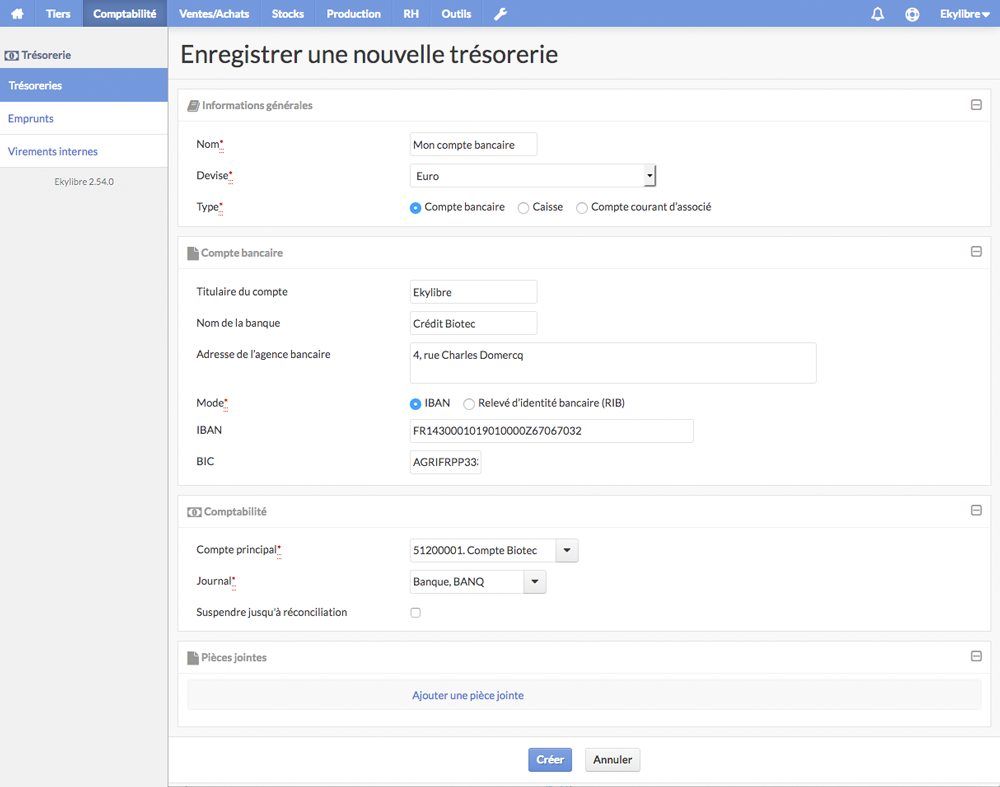
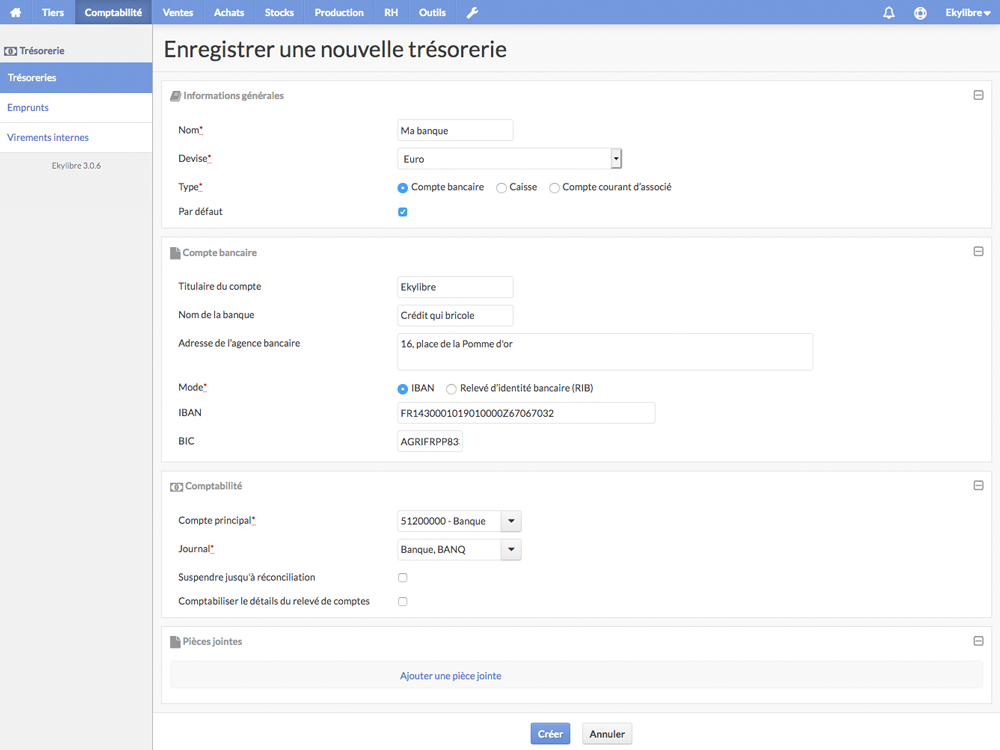
Accountacy 2019

diff --git a/content/fr/chapitre6.html b/content/fr/chapitre6.html
@@ -350,6 +350,14 @@
                   Comment valider les écritures enregistrées dans le <a href="../chapitre6#brouillard" target="_self">brouillard</a> comptable
                </div>
             </div>
+			<div class="divTableRow">
+               <div class="divTableCellListe" style="width: 14px">
+                  <img src="../images/commun/caret-right.svg" alt="Flèche" height="15">
+               </div>
+               <div class="divTableCellListe" style="width: auto">
+                  Comment réaliser le <a href="../chapitre6#rapprochement" target="_self">rapprochement bancaire</a> avec import d'un fichier OFX
+               </div>
+            </div>
             <div class="divTableRow">
                <div class="divTableCellListe" style="width: 14px">
                   <img src="../images/commun/caret-right.svg" alt="Flèche" height="15">
@@ -1498,7 +1506,7 @@
          <p align="center"><img src="../images/chapitre6/comptabilite.svg" alt="Comptabilité" width="60"></p>
          <p>Dans la barre latérale du module, cliquez sur "Trésoreries" dans la section "Trésorerie" symbolisée par l'icône d'un billet<img src="../images/chapitre6/money.svg" alt="Billet" height="20" class="align-icone icone-marge-gauche icone-marge-droite">pour afficher la liste des moyens d'encaissement/décaissement.</p>
          <p class="max-img-process">
-            <img src="../images/chapitre6/tresorerie1.png" class="contour-img" alt="Moyens d'encaissement/décaissement" data-action="zoom" />
+            <img src="../images/chapitre6/tresorerie1.png" class="contour-img" alt="Liste des trésoreries" data-action="zoom" />
          </p>
       </div>
       <div class="info-fond aerateur-haut aerateur-bas">
@@ -1677,6 +1685,180 @@
             <img src="../images/chapitre6/virement3.png" class="contour-img" alt="Nouvel emprunt" data-action="zoom" />
          </p>
       </div>
+	  <h6>Guide de prise en main • Comptabilité • Rapprochement bancaire</h6>
+      <a class="slice-long" id="rapprochement"></a>
+      <p align="center" class="texte aerateur procedure">D – Procédure pour réaliser un rapprochement bancaire</p>
+	  <!--
+	   <p class="texte">Le lettrage comptable d'un compte &#40;généralement un compte de tiers&#41; est une opération comptable qui consiste à affecter un seul repère à 2 ou plusieurs entrées comptables dans ce compte, la somme des entrées au crédit devant être égale à la somme des entrées au débit.</p>
+	  -->
+	  <p class="texte">Le rapprochement bancaire est un contrôle, réalisé dans le but d'amener les comptes bancaires au plus proche de la réalité des relevés de compte, c'est-à-dire vérifier la concordance des deux comptes.</p>
+      <p class="texte">
+         Le processus suivant vous guide pour réaliser un rapprochement bancaire avec import d'un fichier <span class="tooltip">OFX<span class="tooltiptext tooltip-top">Voir glossaire</span></span>.
+      </p>
+      <div class="floating-box process">
+         <img src="../images/commun/step1.svg" alt="1" width="52" />
+      </div>
+      <div class="process-txt">
+         <span class="titre-advice">Affichez les moyens d'encaissement/décaissement</span>
+         <p>
+            Cliquez sur le lien "Comptabilité" dans le "Menu principal" ou sur le bouton "Comptabilité" de la page d'accueil&nbsp;:
+         </p>
+         <p align="center"><img src="../images/chapitre6/comptabilite.svg" alt="Comptabilité" width="60"></p>
+         <p>Dans la barre latérale du module, cliquez sur "Trésoreries" dans la section "Trésorerie" symbolisée par l'icône d'un billet<img src="../images/chapitre6/money.svg" alt="Billet" height="20" class="align-icone icone-marge-gauche icone-marge-droite">pour afficher la liste des moyens d'encaissement/décaissement.</p>
+         <p class="max-img-process">
+            <img src="../images/chapitre6/rapprochement1.png" class="contour-img" alt="Liste des trésoreries" data-action="zoom" />
+         </p>
+      </div>
+      <br />
+	  <div class="floating-box process">
+         <img src="../images/commun/step2.svg" alt="2" width="52" />
+      </div>
+      <div class="process-txt">
+         <span class="titre-advice">Paramétrez votre compte bancaire</span>
+         <p>Cliquez sur le bouton "Nouveau", puis sélectionnez le "Type" de trésorie et remplissez tous les champs obligatoires signalés par une astérisque de couleur rouge avec les informations requises pour la définir correctement.</p>
+         <p class="max-img-process">
+            <img src="../images/chapitre6/rapprochement2.png" class="contour-img" alt="Paramétrage compte bancaire" data-action="zoom" />
+         </p>
+      </div>
+      <br />
+	  <div class="floating-box process">
+         <img src="../images/commun/step3.svg" alt="3" width="52" />
+      </div>
+      <div class="process-txt">
+         <span class="titre-advice">Paramétrez les options comptables</span>
+         <p>Dans l'optique de réaliser le rapprochement bancaire grâce à l'import d'un fichier <span class="tooltip">OFX<span class="tooltiptext tooltip-top">Voir glossaire</span></span>, 2 options sont à prendre en considération&nbsp;:</p>
+		 <p><strong>Avec un compte d'attente&nbsp;:</strong><br />Cochez la case<img src="../images/commun/check-square.svg" alt="Case à cocher" height="20" class="align-icone icone-marge-gauche icone-marge-droite">à droite de l'option "Suspendre jusqu'à reconciliation" pour utiliser un compte d'attente &#40;471XXXXX&#41;.</p>
+		 <p>Dans ce cas, tous les encaissements et les décaissements dans Ekylibre passeront par un compte d’attente de type 471XXXX &#40;attention à bien créer autant de comptes d’attente que de comptes de trésorerie&#41;. L’import du relevé de compte provoquera la création d’une écriture comptable directement dans le compte de banque.</p>
+         <p class="max-img-process">
+            <img src="../images/chapitre6/rapprochement3.png" class="contour-img" alt="Paramétrage compte bancaire" data-action="zoom" />
+         </p>
+		 <p><strong>Avantage</strong>&nbsp;: le solde de banque dans Ekylibre sera toujours à jour avec le solde de banque réel même si le relevé de compte n’est pas pointé entièrement.<br />
+		 <strong>Inconvénient</strong>&nbsp;: demande un paramétrage plus complexe au départ.</p>
+		 <p><strong>Sans compte d'attente&nbsp;:</strong><br />Laissez la case<img src="../images/commun/square-o.svg" alt="Case à cocher" height="20" class="align-icone icone-marge-gauche icone-marge-droite">décochée à droite de l'option "Suspendre jusqu'à reconciliation" pour ne pas utiliser de compte d'attente. Tous les encaissements et les décaissements généreront directement une écriture dans le compte de banque.</p>
+		 <p class="max-img-process">
+            <img src="../images/chapitre6/rapprochement4.png" class="contour-img" alt="Paramétrage compte bancaire" data-action="zoom" />
+         </p>
+		 <p><strong>Avantage</strong>&nbsp;: il ne reste qu’à pointer les relevés de comptes avec les encaissements et les décaissements.<br />
+		 <strong>Inconvénient</strong>&nbsp;: il peut y avoir des écarts avec le solde de banque si le relevé de compte n’est pas pointé entièrement.</p>
+		 <p>Notez que l’option "Comptabiliser le détail du relevé de comptes" permet de générer autant de lignes comptables que de lignes présentes dans le relevé de compte et ainsi d’avoir une évolution du solde bancaire précise.</p>
+      </div>
+      <div class="warn-fond aerateur-haut aerateur-bas">
+         <div class="floating-box-warn">
+            <img src="../images/commun/attention.svg" width="100" alt="Attention"/>
+         </div>
+         <div class="info-txt">
+            <span class="titre-advice">Téléchargement des relevés de compte au format OFX<br /></span>
+            <p class="texte-advice">Identifié&#40;e&#41; sur le site Web de votre banque et une fois dans la page des téléchargements, choisissez le format de fichier OFX pour récupérer vos relevés de comptes. Prenez soin de paramétrer les dates du 1<sup>er</sup> du mois à la fin du mois ou par trimestre entier afin de vous y retrouver.</p>
+         </div>
+      </div>
+	  <div class="floating-box process">
+         <img src="../images/commun/step4.svg" alt="4" width="52" />
+      </div>
+      <div class="process-txt">
+         <span class="titre-advice">Importez le fichier OFX</span>
+         <p>Affichez à nouveau la liste des trésoreries, puis cliquez sur le bouton "Importer"…</p>
+         <p class="max-img-process">
+            <img src="../images/chapitre6/rapprochement5.png" class="contour-img" alt="Création de l'import" data-action="zoom" />
+         </p>
+		 <p>… ou cliquez sur le nom d'un compte bancaire dans le liste des trésoreries, puis cliquez sur le bouton "Importer".</p>
+         <p class="max-img-process">
+            <img src="../images/chapitre6/rapprochement6.png" class="contour-img" alt="Création de l'import" data-action="zoom" />
+         </p>
+		 <p>La fenêtre de sélection vous permet maintenant d'importer le fichier OFX.</p>
+		 <p class="max-img-process">
+            <img src="../images/chapitre6/rapprochement7.png" class="contour-img" alt="Sélection du fichier OFX" data-action="zoom" />
+         </p>
+		 <p>Cliquez sur le bouton "Parcourir" pour sélectionner le fichier OFX, puis cliquez sur le bouton "Enregistrer". Le fichier OFX importé est automatiquement associé au bon compte bancaire même si vous en avez créé plusieurs.</p>
+		 <p class="max-img-process">
+            <img src="../images/chapitre6/rapprochement8.png" class="contour-img" alt="Import des données" data-action="zoom" />
+         </p>
+      </div>
+      <br />
+	  <div class="floating-box process">
+         <img src="../images/commun/step5.svg" alt="5" width="52" />
+      </div>
+      <div class="process-txt">
+         <span class="titre-advice">Vérifiez l'importation des données</span>
+         <p>Une fois le ficher OFX importé, contrôlez les éléments du relevé de compte.</p>
+         <p class="max-img-process">
+            <img src="../images/chapitre6/rapprochement9.png" class="contour-img" alt="Paramétrage compte bancaire" data-action="zoom" />
+         </p>
+      </div>
+      <br />
+	  <div class="floating-box process">
+         <img src="../images/commun/step6.svg" alt="6" width="52" />
+      </div>
+      <div class="process-txt">
+         <span class="titre-advice">Procédez au pointage</span>
+         <p>Cliquez sur le bouton "Index". Lors de la première ouverture, les écritures présentent à la même date et ayant le même montant sont rapprochées automatiquement et n'apparaissent pas dans le tableau.</p>
+		 <div class="divTableListe">
+            <div class="divTableBody">
+               <div class="divTableRow">
+                  <div class="divTableCellIcn">
+                     <img src="../images/chapitre6/university.svg" class="icone-marge-droite" alt="Relevé de banque" height="20">
+                  </div>
+				  <div class="divTableCellExo">
+                     indique une ligne du relevé de compte non rapprochée avec une écriture présente dans Ekylibre.
+                  </div>
+               </div>
+               <div class="divTableRow">
+                  <div class="divTableCellIcn">
+                     <img src="../images/chapitre6/book.svg" class="icone-marge-droite" alt="Écriture Ekylibre" height="20">
+                  </div>
+				  <div class="divTableCellExo">
+                     indique une écriture présente dans Ekylibre non rapprochée avec une ligne du relevé de compte.
+                  </div>
+               </div>
+            </div>
+         </div>
+         <p class="max-img-process">
+            <img src="../images/chapitre6/rapprochement10.png" class="contour-img" alt="Tableau des écritures" data-action="zoom" />
+         </p>
+		 <p>Si vous avez déjà saisi vos pièces &#40;achats, ventes, encaissements et décaissements&#41;, vous avez juste à sélectionner les lignes que vous voulez rapprocher. <strong>Cliquez successivement</strong> sur les lignes qui doivent être pointées.</p>
+		 <p class="max-img-process">
+            <img src="../images/chapitre6/rapprochement11.png" class="contour-img" alt="Pointage étape 1" data-action="zoom" />
+         </p>
+		 <p class="max-img-process">
+            <img src="../images/chapitre6/rapprochement12.png" class="contour-img" alt="Pointage étape 2" data-action="zoom" />
+         </p>
+		 <p>Dans cet exemple, 2 lignes sont maintenant rapprochées.<br />Si la case devant l'option "Cacher les lignes lettrées" en haut à droite du tableau est cochée<img src="../images/commun/check-square.svg" alt="Case à cocher" height="20" class="align-icone icone-marge-gauche">, les lignes disparaissent du tableau, sinon, une gomme<img src="../images/chapitre6/eraser.svg" alt="Gomme" height="20" class="align-icone icone-marge-gauche icone-marge-droite">et la commande "Effacer" sont affichés pour permettre de supprimer la lettre des lignes concernées.</p>
+		 <p class="max-img-process">
+            <img src="../images/chapitre6/rapprochement13.png" class="contour-img" alt="Lignes lettrées" data-action="zoom" />
+         </p>
+      </div>
+      <br />
+	  <div class="floating-box process">
+         <img src="../images/commun/step7.svg" alt="7" width="52" />
+      </div>
+      <div class="process-txt">
+         <span class="titre-advice">Ajoutez un achat ou une vente</span>
+         <p>Si vous n’avez pas saisi toutes vos pièces, vous pouvez sélectionner une ou plusieurs lignes du relevé de comptes et saisir directement un achat avec son décaissement ou une vente avec son encaissement.</p>
+         <p class="max-img-process">
+            <img src="../images/chapitre6/rapprochement14.png" class="contour-img" alt="Sélection ligne de relevé" data-action="zoom" />
+         </p>
+		 <p>Sélectionnez la ligne et cliquez sur le bouton "Nouvel achat" ou "Nouvel vente" en fonction du rapprochement en débit ou en crédit à réaliser.</p>
+		 <p class="max-img-process">
+            <img src="../images/chapitre6/rapprochement15.png" class="contour-img" alt="Ajout du nouvel achat" data-action="zoom" />
+         </p>
+		 <p>Renseignez l'opération en spécifiant s'il est nécessaire ou non d'enregistrer une nouvelle facture d'achat/de vente et un nouveau décaissement/encaissement.</p>
+		 <p class="max-img-process">
+            <img src="../images/chapitre6/rapprochement16.png" class="contour-img" alt="Création du nouvel achat" data-action="zoom" />
+         </p>
+		 <p>Cliquez sur <span class="btn-blue">Enregistrer</span> pour valider l'opération.</p>
+		 <p class="max-img-process">
+            <img src="../images/chapitre6/rapprochement17.png" class="contour-img" alt="Écritures lettrées" data-action="zoom" />
+         </p>
+		 <p>Vous retrouvez ensuite directement les écritures d'encaissements/de décaissements rapprochées avec les lignes de votre relevé de comptes.</p><p>Vous avez le cas échéant la possibilité d'ajouter de nouvelles lignes avec une saisie manuelle des éléments.</p>
+		 <p class="max-img-process">
+            <img src="../images/chapitre6/rapprochement18.png" class="contour-img" alt="Écritures lettrées" data-action="zoom" />
+         </p>
+		 <p>Répétez successivement les opérations jusqu'au pointage de toutes les écritures afin de purger complètement le tableau des relevés.</p>
+		  <p>Après un ou plusieurs imports, vous pouvez toujours revenir au rapprochement en cours en cliquant sur le nom d'un compte bancaire dans le liste des trésoreries, puis cliquez sur le bouton "Rapprocher" pour ouvrir à nouveau le tableau des relevés.</p>
+		 <p class="max-img-process">
+            <img src="../images/chapitre6/rapprochement19.png" class="contour-img" alt="Paramétrage compte bancaire" data-action="zoom" />
+         </p>
+      </div>
+      <br />
       <h6>Guide de prise en main • Comptabilité • Immobilisations</h6>
       <a class="slice-long" id="immobilisations"></a>
       <h2 class="texte aerateur">h - Immobilisations</h2>

diff --git a/content/stylesheets/ekylibre.css b/content/stylesheets/ekylibre.css
@@ -953,6 +953,15 @@ a:visited {
 	vertical-align: top;
 }
 
+/*Tableau icônes pointage*/
+
+.divTableCellIcn,
+.divTableHeadIcn {
+	display: table-cell;
+	padding: 5px 0;
+	text-align: center;
+	vertical-align: top;
+}
 
 /*Tableau listes diverses*/
 
